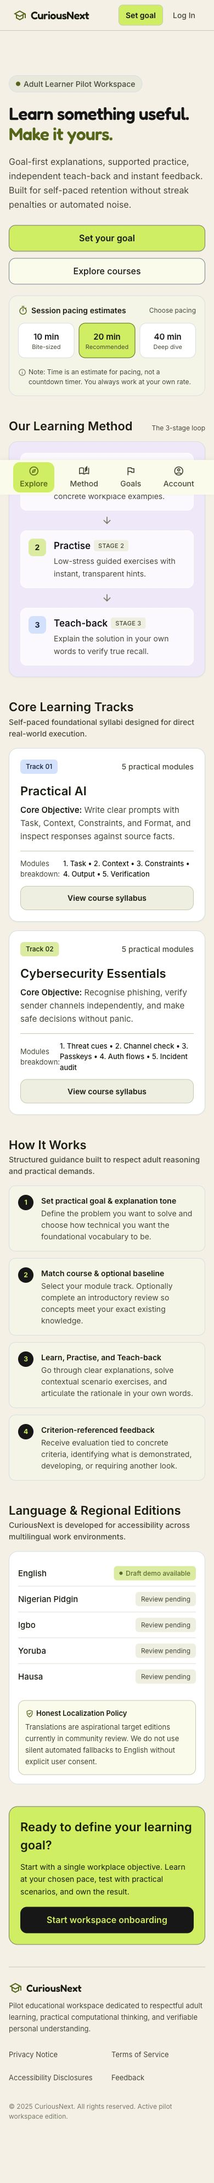
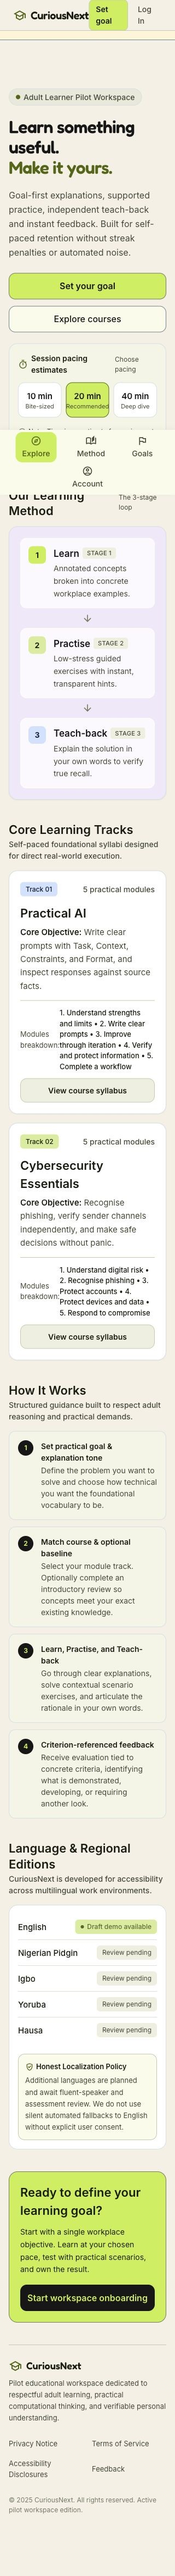
Prepare Neon pilot foundation decisions

Changed region(s): [[0.0312, 0.0, 0.9688, 0.9678], [0.9375, 0.3434, 0.9688, 0.3746]]

diff --git a/docs/design-artifacts/stitch/97431bce4b0f40b7b54d9c79dba8e2b3.html b/docs/design-artifacts/stitch/97431bce4b0f40b7b54d9c79dba8e2b3.html
@@ -380,23 +380,23 @@
 <span class="text-xs font-semibold text-[#59564F] uppercase tracking-wider block font-metadata">Syllabus breakdown</span>
 <div class="flex items-start gap-3 p-2.5 rounded-lg bg-surface-container-low border border-outline-variant text-sm">
 <span class="font-mono text-xs font-bold text-secondary bg-surface px-1.5 py-0.5 rounded border border-outline-variant">01</span>
-<span class="text-[#171717]">Prompt anatomy &amp; deliberate constraints</span>
+<span class="text-[#171717]">Understand strengths and limits</span>
 </div>
 <div class="flex items-start gap-3 p-2.5 rounded-lg bg-surface-container-low border border-outline-variant text-sm">
 <span class="font-mono text-xs font-bold text-secondary bg-surface px-1.5 py-0.5 rounded border border-outline-variant">02</span>
-<span class="text-[#171717]">Fact-checking hallucinations against files</span>
+<span class="text-[#171717]">Write clear prompts</span>
 </div>
 <div class="flex items-start gap-3 p-2.5 rounded-lg bg-surface-container-low border border-outline-variant text-sm">
 <span class="font-mono text-xs font-bold text-secondary bg-surface px-1.5 py-0.5 rounded border border-outline-variant">03</span>
-<span class="text-[#171717]">Structured synthesis &amp; document drafting</span>
+<span class="text-[#171717]">Improve through iteration</span>
 </div>
 <div class="flex items-start gap-3 p-2.5 rounded-lg bg-surface-container-low border border-outline-variant text-sm">
 <span class="font-mono text-xs font-bold text-secondary bg-surface px-1.5 py-0.5 rounded border border-outline-variant">04</span>
-<span class="text-[#171717]">Iterative troubleshooting workflows</span>
+<span class="text-[#171717]">Verify and protect information</span>
 </div>
 <div class="flex items-start gap-3 p-2.5 rounded-lg bg-surface-container-low border border-outline-variant text-sm">
 <span class="font-mono text-xs font-bold text-secondary bg-surface px-1.5 py-0.5 rounded border border-outline-variant">05</span>
-<span class="text-[#171717]">Teach-back synthesis &amp; daily audit routine</span>
+<span class="text-[#171717]">Complete a workflow</span>
 </div>
 </div>
 </div>
@@ -433,23 +433,23 @@
 <span class="text-xs font-semibold text-[#59564F] uppercase tracking-wider block font-metadata">Syllabus breakdown</span>
 <div class="flex items-start gap-3 p-2.5 rounded-lg bg-surface-container-low border border-outline-variant text-sm">
 <span class="font-mono text-xs font-bold text-secondary bg-surface px-1.5 py-0.5 rounded border border-outline-variant">01</span>
-<span class="text-[#171717]">Phishing mechanics &amp; calm verification</span>
+<span class="text-[#171717]">Understand digital risk</span>
 </div>
 <div class="flex items-start gap-3 p-2.5 rounded-lg bg-surface-container-low border border-outline-variant text-sm">
 <span class="font-mono text-xs font-bold text-secondary bg-surface px-1.5 py-0.5 rounded border border-outline-variant">02</span>
-<span class="text-[#171717]">Multi-factor auth &amp; token security</span>
+<span class="text-[#171717]">Recognise phishing</span>
 </div>
 <div class="flex items-start gap-3 p-2.5 rounded-lg bg-surface-container-low border border-outline-variant text-sm">
 <span class="font-mono text-xs font-bold text-secondary bg-surface px-1.5 py-0.5 rounded border border-outline-variant">03</span>
-<span class="text-[#171717]">Password managers &amp; account segmentation</span>
+<span class="text-[#171717]">Protect accounts</span>
 </div>
 <div class="flex items-start gap-3 p-2.5 rounded-lg bg-surface-container-low border border-outline-variant text-sm">
 <span class="font-mono text-xs font-bold text-secondary bg-surface px-1.5 py-0.5 rounded border border-outline-variant">04</span>
-<span class="text-[#171717]">Device boundaries &amp; safe Wi-Fi triage</span>
+<span class="text-[#171717]">Protect devices and data</span>
 </div>
 <div class="flex items-start gap-3 p-2.5 rounded-lg bg-surface-container-low border border-outline-variant text-sm">
 <span class="font-mono text-xs font-bold text-secondary bg-surface px-1.5 py-0.5 rounded border border-outline-variant">05</span>
-<span class="text-[#171717]">Practical incident report teach-back</span>
+<span class="text-[#171717]">Respond to compromise</span>
 </div>
 </div>
 </div>
@@ -541,7 +541,7 @@
           </p>
 <div class="p-4 rounded-xl bg-surface-container border border-outline-variant text-xs text-[#59564F] leading-relaxed">
 <strong class="text-[#171717] font-semibold block mb-1">Honest Localization Policy:</strong>
-            Translations are target editions currently in community review. We do not use silent automated fallbacks to English without explicit user consent.
+            Additional languages are planned and await fluent-speaker and assessment review. We do not use silent automated fallbacks to English without explicit user consent.
           </div>
 </div>
 <div class="lg:col-span-7">

diff --git a/docs/design-artifacts/stitch/6f5b8702213a4338b4bec1f00a994d7c.html b/docs/design-artifacts/stitch/6f5b8702213a4338b4bec1f00a994d7c.html
@@ -151,9 +151,9 @@
 <a class="text-metadata font-metadata font-semibold bg-[#C8EF45] text-[#171717] px-3 py-1.5 rounded-lg border border-outline-variant hover:opacity-90 active:scale-95 transition-transform flex items-center min-h-[38px]" href="e0fadc75dc564b45a1fa2e02024e65d3.html">
         Set goal
       </a>
-<button aria-label="Log in to account" class="text-metadata font-metadata text-on-surface-variant px-2.5 py-1.5 hover:text-primary min-h-[44px] min-w-[44px] inline-flex items-center justify-center rounded-lg" type="button">
+<a aria-label="Log in to account" class="text-metadata font-metadata text-on-surface-variant px-2.5 py-1.5 hover:text-primary min-h-[44px] min-w-[44px] inline-flex items-center justify-center rounded-lg" href="c6bac46ce7234c46b54124b720472dbc.html">
         Log In
-      </button>
+      </a>
 </div>
 </header>
 <!-- Main Canvas (Mobile Centered 390px Stacked Container, flexible reflow to 320px) -->
@@ -316,9 +316,9 @@
 <div class="border-t border-outline-variant pt-3 flex flex-col gap-2">
 <div class="flex items-center justify-between text-[13px] font-metadata text-on-surface-variant">
 <span>Modules breakdown:</span>
-<span class="font-medium text-on-surface">1. Task • 2. Context • 3. Constraints • 4. Output • 5. Verification</span>
+<span class="font-medium text-on-surface">1. Understand strengths and limits • 2. Write clear prompts • 3. Improve through iteration • 4. Verify and protect information • 5. Complete a workflow</span>
 </div>
-<a class="mt-1 w-full min-h-[44px] inline-flex items-center justify-center bg-surface-container text-on-surface hover:bg-surface-container-high font-metadata text-metadata font-semibold rounded-xl border border-outline-variant transition-colors" href="#practical-ai">
+<a class="mt-1 w-full min-h-[44px] inline-flex items-center justify-center bg-surface-container text-on-surface hover:bg-surface-container-high font-metadata text-metadata font-semibold rounded-xl border border-outline-variant transition-colors" href="da770edfa8ed4d508716d4196e32736d.html">
             View course syllabus
           </a>
 </div>
@@ -344,9 +344,9 @@
 <div class="border-t border-outline-variant pt-3 flex flex-col gap-2">
 <div class="flex items-center justify-between text-[13px] font-metadata text-on-surface-variant">
 <span>Modules breakdown:</span>
-<span class="font-medium text-on-surface">1. Threat cues • 2. Channel check • 3. Passkeys • 4. Auth flows • 5. Incident audit</span>
+<span class="font-medium text-on-surface">1. Understand digital risk • 2. Recognise phishing • 3. Protect accounts • 4. Protect devices and data • 5. Respond to compromise</span>
 </div>
-<a class="mt-1 w-full min-h-[44px] inline-flex items-center justify-center bg-surface-container text-on-surface hover:bg-surface-container-high font-metadata text-metadata font-semibold rounded-xl border border-outline-variant transition-colors" href="#cybersecurity-essentials">
+<a class="mt-1 w-full min-h-[44px] inline-flex items-center justify-center bg-surface-container text-on-surface hover:bg-surface-container-high font-metadata text-metadata font-semibold rounded-xl border border-outline-variant transition-colors" href="a13d0fc3f83840e2a7dea64d881e5041.html">
             View course syllabus
           </a>
 </div>
@@ -455,7 +455,7 @@
 <span aria-hidden="true" class="material-symbols-outlined text-[16px] text-primary">verified_user</span>
             Honest Localization Policy
           </p>
-          Translations are aspirational target editions currently in community review. We do not use silent automated fallbacks to English without explicit user consent.
+          Additional languages are planned and await fluent-speaker and assessment review. We do not use silent automated fallbacks to English without explicit user consent.
         </div>
 </div>
 </section>
@@ -467,9 +467,9 @@
 <p class="font-ui-body text-[14px] text-on-primary-fixed leading-relaxed">
         Start with a single workplace objective. Learn at your chosen pace, test with practical scenarios, and own the result.
       </p>
-<button class="mt-1 w-full min-h-[48px] inline-flex items-center justify-center bg-[#171717] text-[#C8EF45] font-ui-body font-semibold rounded-xl hover:bg-black active:scale-[0.99] transition-transform" type="button">
+<a class="mt-1 w-full min-h-[48px] inline-flex items-center justify-center bg-[#171717] text-[#C8EF45] font-ui-body font-semibold rounded-xl hover:bg-black active:scale-[0.99] transition-transform" href="e0fadc75dc564b45a1fa2e02024e65d3.html">
         Start workspace onboarding
-      </button>
+      </a>
 </section>
 <!-- Footer Content Canvas -->
 <footer class="pt-6 border-t border-outline-variant flex flex-col gap-5 text-on-surface-variant" role="contentinfo">

diff --git a/docs/design-docs/decisions/002-neon-pilot-stack.md b/docs/design-docs/decisions/002-neon-pilot-stack.md
@@ -1,0 +1,40 @@
+# ADR-002: Neon pilot stack proposal
+
+## Status
+
+2026-10-08. Neon PostgreSQL and email magic-link-only access are user decisions. The remaining stack is a recommendation awaiting acceptance and integration validation. No accounts, paid resources or runtime application have been created. Owner: engineering. Execution: [CN-FOUNDATION-001](../../exec-plans/active/foundation.md).
+
+## Decision proposal
+
+| Responsibility | Recommendation | Reason |
+|---|---|---|
+| Web application | Next.js, TypeScript, Node server runtime | Accessible React screens and server endpoints in one deployment. |
+| Database | Neon PostgreSQL, accepted | Durable relational records and transactions for learner evidence. |
+| Persistence adapter | Drizzle with PostgreSQL driver | Reviewed SQL migrations and typed queries behind application ports. |
+| Authentication | Better Auth magic-link plugin in the server | Shared sign-up/login with control over confirmation and token handling. This is an application library, not managed authentication. |
+| Email | Resend | Transactional link delivery through a server adapter. |
+| Hosting | Vercel on a plan appropriate to intended use | Managed deployment for Next.js, with service costs subject to budget approval. |
+
+Use PostgreSQL transactions for frozen submissions and evidence updates. Start with text artifacts in the database. Uploads and object storage remain deferred. AI provider/model selection requires reference-task evaluation, cost and privacy review before M3. Do not choose a model solely from familiarity.
+
+Managed infrastructure reduces infrastructure work, but authentication policy, authorization, migrations, recovery and application monitoring remain our responsibility. Neon-managed authentication is an alternative to evaluate if it exposes the required confirmation and token controls. Do not assume those controls without testing. A separate managed identity provider adds another service and identity synchronization boundary. A Node host other than Vercel remains possible if budget or regional requirements warrant it.
+
+## Authentication adoption conditions
+
+Configure hashed verification-token storage explicitly. Email a CuriousNext confirmation URL. Its GET renders confirmation without consuming the token. Only an origin-checked POST redeems it through the server authentication API and propagates secure session cookies. Do not expose a generic authentication GET verifier that bypasses this confirmation route.
+
+Proposed defaults: ten-minute expiry and one request per email per sixty seconds, with additional shared IP abuse limits. These are operational choices, not established security guarantees. Persist rate limits across instances. Keep tokens and email addresses out of logs, analytics and error messages. Apply no-store and no-referrer to confirmation pages and remove the token from the visible URL after creating a short-lived confirmation context. No third-party scripts on this page.
+
+Adoption tests must prove single-use redemption under concurrency, hashed records, no account/profile before verified redemption, expired/reused-link handling, uniform account-existence responses, cross-device confirmation, CSRF protection, cookie propagation, logout and learner ownership. If the selected adapter fails these tests, revise the adapter before learner use. Never compensate by introducing passwords or code entry.
+
+## Architecture and implementation gate
+
+Keep vendor SDKs in adapters, domain rules pure, and composition in bootstrap. Next.js requires framework route files. Before creating application code, record their narrow bridging role, update the structural checker to validate their permitted dependencies, and add regression tests. The current checker does not yet permit that bridge. Do not relax dependency checks by excluding framework files.
+
+## Consequences and acceptance
+
+Accept the remaining provider choices, budget ceiling, deployment/database regions and retention policy before provisioning. Verify live pricing and limits at that point. Vercel Hobby is restricted to personal noncommercial use, so do not assume a commercial pilot qualifies. Confirm a sending domain, email authentication and delivery before onboarding learners. Source/rubric review and screen approval still block completion of M1/M1.5.
+
+## References
+
+Reviewed 2026-10-08: [Neon and Drizzle](https://neon.com/docs/guides/drizzle), [Better Auth magic links](https://better-auth.com/docs/plugins/magic-link), [Drizzle adapter](https://better-auth.com/docs/adapters/drizzle), [Next.js deployment](https://nextjs.org/docs/app/getting-started/deploying), [Resend with Next.js](https://resend.com/docs/send-with-nextjs), [Vercel Hobby restrictions](https://vercel.com/docs/plans/hobby). Library defaults differ from our proposed policy. Recheck documentation and pin supported versions during the integration spike.

diff --git a/docs/design-docs/api-spec.md b/docs/design-docs/api-spec.md
@@ -1,0 +1,43 @@
+# CuriousNext API specification
+
+## Status and authority
+
+Draft M1 contract, no endpoints implemented. [Stack proposal](decisions/002-neon-pilot-stack.md), [security](security.md), [domain](domain-model.md), [data model](data-model.md) own their respective policies. Routes below are CuriousNext interfaces, not a promise to expose every vendor endpoint. Owner: engineering.
+
+## Shared conventions
+
+JSON requests are schema-validated with bounded body sizes. Successful responses use `{ data, requestId }`. Errors use `{ error: { code, message }, requestId }`, without stack traces or private provider details. Use 400 for malformed input, 401 for missing session, 404 for inaccessible resources, 409 for version/idempotency conflicts and 429 for abuse limits. Private responses use no-store. Every private operation derives learner identity from a verified server session. Never accept a client-supplied learner ID as authority.
+
+Mutations validate origin and CSRF protection. Idempotency keys are scoped to learner and operation, with a persisted request hash. Reusing a key with a different payload returns 409. Resource versions support optimistic concurrency. Logs contain request IDs and outcome codes, not submitted content or tokens.
+
+## Public authentication, M2
+
+| Route | Input | Behavior |
+|---|---|---|
+| POST /api/access/request | `{ email, destination }` | Validate email and allowlisted destination enum (onboarding or learning). Return the same 202 acknowledgement for existing/new accounts. Apply persistent abuse limits. Queue or await delivery safely. Do not return a token. |
+| GET /access/confirm | Opaque email-link token | Render explicit confirmation. No redemption or learner creation on GET. Establish an expiring confirmation context and remove the token from the address bar. |
+| POST /api/access/confirm | Confirmation context and CSRF proof | Redeem once, create the verified account if needed, set secure HttpOnly session cookie, redirect to a server-approved destination. Invalid/expired/reused links return a neutral recovery state. |
+| GET /api/session | Cookie | Return minimal learner/session state, or 401. Validate the session server-side. |
+| POST /api/access/logout | Cookie and CSRF proof | Revoke current session and clear cookie. Repeated logout is safe. |
+
+Provider-specific error translation and delivery recovery must not reveal whether an email is registered. Resend requests never create learning evidence. No password, social sign-in or numeric-code endpoints. Authentication integration tests are release gates, not covered by current repository tests.
+
+## Course entry, M2
+
+| Route | Input | Output |
+|---|---|---|
+| PUT /api/profile/goal | `{ goalText, explanationLevel, teachingLanguage, sessionMinutes, version }` | Saved goal/preferences and new version. Minutes: 10, 20 or 40. Language selection respects reviewed availability. |
+| GET /api/courses/suggestions | Session | Two supported courses with relevance and prerequisites. Unsupported goals receive an honest boundary. |
+| POST /api/enrollments | `{ courseVersionId }`, idempotency key | Owned enrollment and optional diagnostic choice. |
+| POST /api/enrollments/:id/placement | `{ mode: "skip" }` or diagnostic answers, version | Beginning or provisional recommended module and reason. No achievement/evidence award. |
+| GET /api/recommendation | Session and enrollment | One primary action, at most two alternatives, time estimate and evidence-based reason. |
+
+## Attempt and evidence boundary, M3 onward
+
+Persist practice-AI interactions separately from assistant assistance. Draft-saving, assistance events, submit, assessment retry, recall and transfer receive concrete schemas when their milestone starts. Submission freezes task/rubric/policy versions and records the idempotency key before calling the assessor. Assessment jobs must survive process interruption through a durable queue/outbox, not unawaited background promises.
+
+A successful validated assessment commits assessment, criterion-linked evidence, capability projection and recommendation atomically. Failure retains the attempt without a new demonstration. Export and nested-resource queries verify ownership. Diagnostic placement, independent demonstration, recall and transfer stay distinct. The [logical interfaces](data-model.md) remain authoritative until the next contract slice specifies these routes.
+
+## Validation before implementation acceptance
+
+Test request limits, invalid enums, missing/expired sessions, cross-learner access, same-key retries, different-payload conflicts and concurrent updates. Test the complete magic-link flow including automated GET scans and cross-device use. Trace diagnostic skip through a saved recommendation. Replace this draft with tested route schemas and compatibility rules as code is added.

diff --git a/Documentation.md b/Documentation.md
@@ -5,7 +5,7 @@
 | ID | Status | Evidence |
 |---|---|---|
 | M0 | completed | Governance documents, local checker and regression tests. Validation commands recorded below. |
-| M1 | pending | No stack selected, reference and rubric review pending. |
+| M1 | in_progress | Neon selected. [Stack proposal](docs/design-docs/decisions/002-neon-pilot-stack.md), API and deployment drafts prepared. Remaining providers, integration tests, reference and rubric review pending. |
 | M1.5 | in_progress | Stitch desktop/mobile mockups and [design handoff](docs/design-docs/screen-handoff.md). Locally corrected static previews prepared. User review pending. Runtime accessibility remains untested. |
 | M2 | pending | No application screens or learner journeys implemented. |
 | M3 | pending | Logical contracts only, no runtime persistence or model integration. |
@@ -19,7 +19,7 @@ M0: `python3 scripts/validate_repo.py` and `python3 -m unittest discover -s test
 
 ## Limitations and next work
 
-Origin is configured as https://github.com/hngerebara/curious-next.git. Remote inspection returned no refs on 2026-10-07. Initial publication is in progress, with governance and planning changes proposed through an unmerged PR. A manual slice PR workflow is supplied. No recurring agent is active. [Implement.md](Implement.md) describes the requested future model configuration, not current execution. Reference review, technology decisions, and data retention are M1 prerequisites.
+The initial remote inspection returned no refs on 2026-10-07. Subsequent planning slices have been published through PRs. Current design and foundation work remains proposed through unmerged PRs. A manual slice PR workflow is supplied. No recurring agent is active. [Implement.md](Implement.md) describes the requested future model configuration, not current execution. Reference review, technology decisions, and data retention are M1 prerequisites.
 
 [Plan](Plans.md), [active plan](docs/exec-plans/active/pilot.md), [tech debt](docs/exec-plans/tech-debt-tracker.md), [decision log](docs/design-docs/decisions/index.md).
 
@@ -64,3 +64,9 @@ Origin is configured as https://github.com/hngerebara/curious-next.git. Remote i
 2026-10-07: user requested public homepage and login designs, and email magic links as the only sign-up/login method. Product, frontend, user-flow and security requirements updated. Reference typography inspected: Fredoka 600 for large headlines, Inter for supporting headings and text. Existing static previews rerendered using that pairing. Authentication provider, delivery, token expiry and resend cooldown remain M1 decisions. No email is sent by these designs.
 
 2026-10-08: added four selected public-homepage and magic-link access designs, bringing the handoff to 31 screens. Auth forms start with one blank email field and no password controls. Fredoka loaded in all four new previews. Mobile homepage and auth checked at 320px without horizontal overflow. All 31 static artifact checks, repository checks and 16 regression tests passed. Added artifact integrity and email-only form checks to CI. These do not validate a live authentication service.
+
+## Neon foundation preparation
+
+2026-10-08: THE-12 tracks CN-FOUNDATION-001. Neon is the selected database. Added a proposed Next.js/Drizzle/Better Auth/Resend/Vercel stack, draft authentication/course-entry API and deployment runbook. No services provisioned or runtime tests executed. Provider acceptance, budget, retention, authentication spike and curriculum review remain open. Entry review found and corrected an inert mobile homepage login control in the local static artifact. Required repository, checker and artifact commands provide reproducible validation for this slice.
+
+Validation: mobile homepage header login navigated to the blank magic-link form at 320px. Updated homepage captures at 320px and 1440px showed no horizontal overflow. Course lists now match syllabus modules. Footer legal links and auth state controls remain static placeholders, not implemented behavior.

diff --git a/docs/design-docs/deployment.md b/docs/design-docs/deployment.md
@@ -1,0 +1,36 @@
+# CuriousNext deployment specification
+
+## Status
+
+Draft M1 runbook, no environment provisioned or application deployed. [ADR-002](decisions/002-neon-pilot-stack.md) proposes providers. Owner: engineering. Provider acceptance, billing, region, retention and recovery targets remain open. [Security](security.md) owns privacy controls.
+
+## Environments and secrets
+
+Use separate development/test, staging and production databases and credentials. Preview deployments use synthetic data only. Do not branch production learner data into previews. Restrict preview access and email recipients. Automated tests use a fake email adapter by default.
+
+Server-only configuration: DATABASE_URL (pooled application connection), DATABASE_URL_UNPOOLED (migration connection), BETTER_AUTH_SECRET, BETTER_AUTH_URL, RESEND_API_KEY and EMAIL_FROM. No secrets in NEXT_PUBLIC variables, source, screenshots or CI output. Migration credentials belong only to controlled deployment jobs. The application database role must not own schema changes. Document rotation and revocation during provisioning.
+
+Use a Node runtime and a Drizzle driver that passes interactive transaction and concurrent token-redemption tests. Do not assume every serverless driver has identical transaction semantics. Choose database and hosting regions together after latency and data-handling review. Check current provider limits, commercial terms and combined database/email/hosting cost before purchasing.
+
+## Build and release
+
+Current CI validates repository documents, structural rules, checker tests, static design artifacts and PR metadata. It does not build an application that does not exist. Add pinned Node/package versions, dependency lockfile, type checking, affected behavioral/security tests and production build to both CI and manual PR workflows when M2 starts.
+
+Future release order: validate the exact commit, apply reviewed backward-compatible migrations, deploy staging, exercise magic links and learner isolation with synthetic accounts, then obtain release approval. PRs remain open and unmerged under the per-slice workflow. Provisioning and deployment are separate from creating a PR.
+
+## Reliability and recovery
+
+Use versioned SQL migrations and expand/contract changes. Keep the prior application compatible during migration. Never run destructive schema changes automatically from application startup. Rollback application code separately from data migration. Test restore into an isolated database and verify learner evidence before declaring recovery ready. Define retention and recovery objectives with the owner before first learner use.
+
+Use durable assessment jobs before M3. Bound provider timeouts, retries and spend. Observe outcome codes and queue age without logging learner content. Monitor link delivery failures, invalid/redemption rates and database failures. Show honest interrupted-session and unavailable-assessment states. No demonstration award on infrastructure failure.
+
+## Acceptance checklist
+
+- Provider choices, budget, regions and retention approved.
+- Sender domain verified, email authentication configured and delivery tested.
+- Secrets scoped, rotation documented and session revocation tested.
+- Transaction, migration and restore tests passed.
+- Staging keyboard/screen-reader entry journey and cross-learner tests passed.
+- Runtime logging reviewed for credentials, tokens and learner text.
+
+These steps are planned, not completed. [Status](../../Documentation.md), [foundation plan](../exec-plans/active/foundation.md).

diff --git a/docs/exec-plans/active/foundation.md b/docs/exec-plans/active/foundation.md
@@ -1,0 +1,15 @@
+# CN-FOUNDATION-001: Pilot foundation decisions
+
+## Plan lifecycle
+
+Active preparation for M1 and M1.5 entry-flow review. Owner: engineering. Created 2026-10-08. Ticket: [THE-12](https://linear.app/the-curious-tech-girl/issue/THE-12/review-entry-flow-and-prepare-m1-decisions). Milestone evidence lives in [Documentation.md](../../../Documentation.md).
+
+## Deliverables
+
+Prepare the [Neon stack proposal](../../design-docs/decisions/002-neon-pilot-stack.md), [API draft](../../design-docs/api-spec.md) and [deployment draft](../../design-docs/deployment.md). Preserve magic-link-only access. Correct static homepage login navigation and record the reviewed scope in the [handoff](../../design-docs/screen-handoff.md). No provisioning or application code in this slice.
+
+## Validation and remaining decisions
+
+Run repository validation, checker tests, artifact checks and full diff self-review. Publish a ticket-linked PR and leave it open. Static preview checks do not test live authentication.
+
+Before M1 completion: accept remaining providers and budget, choose regions/retention/recovery targets, validate the authentication adapter, implement framework bridge enforcement, review curriculum sources and calibrate both reference rubrics. Before M2: complete remaining alternate-state designs and user design review. This preparation slice does not close either milestone.

diff --git a/Plans.md b/Plans.md
@@ -15,7 +15,7 @@
 
 ## Execution and validation
 
-Work in milestone order: M1 → M1.5 → M2 onward. M2 screen implementation requires the M1.5 design handoff. M1 records implementation choices before code, rather than pretending the current documentation chooses a stack. M6 language work can prepare earlier, but accessibility is required from M2 onward. English release and each additional language have separate review gates. Do not wait until M6 to fix access barriers.
+Work in milestone order: M1 → M1.5 → M2 onward. M2 screen implementation requires the M1.5 design handoff. M1 records accepted implementation choices before code. [Foundation preparation](docs/exec-plans/active/foundation.md) contains the Neon stack proposal and draft API/deployment specifications. M6 language work can prepare earlier, but accessibility is required from M2 onward. English release and each additional language have separate review gates. Do not wait until M6 to fix access barriers.
 
 Screen design deliverables and review criteria live in [CN-DESIGN-001](docs/exec-plans/active/screen-design.md). Design review is not proof of implemented accessibility.
 

diff --git a/Architecture.md b/Architecture.md
@@ -25,4 +25,4 @@ The initial checker intentionally supports a narrow TypeScript/JavaScript module
 
 Server-side auth, storage, and model adapters implement ports. UI cannot access providers directly. Model secrets never enter client bundles. Submitted text is inert and untrusted. Enforce ownership for nested reads/writes/exports. Log event IDs and outcome codes without learner messages, credentials or model keys.
 
-Stack selection and retention policy remain M1 decisions. See [data model](docs/design-docs/data-model.md), [golden principles](docs/design-docs/core-beliefs.md), [enforcement configuration](docs/governance.json), and [plan](Plans.md).
+Neon is selected. Remaining stack choices and retention policy are proposed in [ADR-002](docs/design-docs/decisions/002-neon-pilot-stack.md) and remain M1 decisions. See [data model](docs/design-docs/data-model.md), [golden principles](docs/design-docs/core-beliefs.md), [enforcement configuration](docs/governance.json), and [plan](Plans.md).

diff --git a/docs/design-docs/screen-handoff.md b/docs/design-docs/screen-handoff.md
@@ -88,3 +88,7 @@ Use manifest source IDs with Stitch get_screen/edit_screens. After an edit, refr
 
 [Active plan](../exec-plans/active/screen-design.md), [milestone status](../../Documentation.md), [roadmap](../../Plans.md).
 
+
+2026-10-08 entry review: mobile homepage header Log In had no action. Local HTML now links to the mobile magic-link screen. This fixes static navigation only. Auth designs remain state previews, not working delivery or redemption. Full state-transition and assistive-technology checks await implementation.
+
+Entry review also aligned both public homepage module lists with the approved planning syllabuses and removed unsupported claims that translations are already in community review. Curriculum remains draft pending subject review.

diff --git a/docs/design-docs/document-ownership.md b/docs/design-docs/document-ownership.md
@@ -19,6 +19,8 @@
 | Project entry and setup | [README](../../README.md) |
 | Screen behavior and interaction states | [Frontend](../FRONTEND.md) |
 | Visual appearance and components | [Design](../DESIGN.md) |
+| Concrete HTTP interfaces | [API specification](api-spec.md) |
+| Environments and operational release | [Deployment](deployment.md) |
 | Persistence and logical interfaces | [Data model](data-model.md) |
 | Source provenance and approvals | [Reference register](../references/curriculum-sources.md) |
 | Active work details and completed-plan history | [Execution plans](../exec-plans/index.md) |

diff --git a/docs/design-docs/decisions/index.md b/docs/design-docs/decisions/index.md
@@ -5,3 +5,5 @@
 - [ADR-001: layered boundaries and conservative checks](001-layered-boundaries.md)
 
 Future stack, provider and retention choices remain pending in [M1](../../../Plans.md). [Debt](../../exec-plans/tech-debt-tracker.md).
+
+- [ADR-002: Neon pilot stack proposal](002-neon-pilot-stack.md): Neon accepted, remaining choices proposed.
